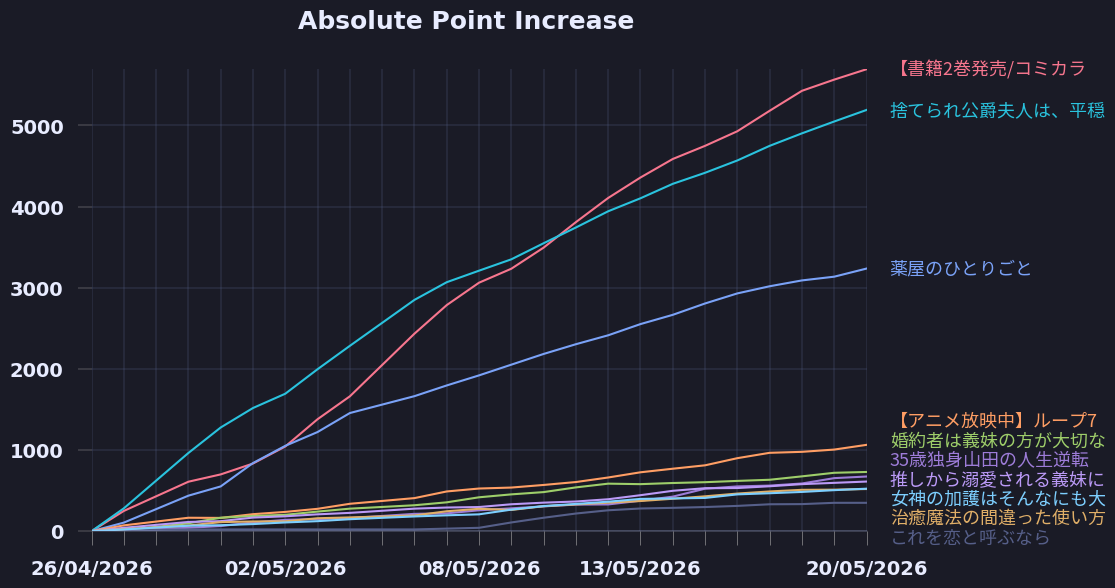
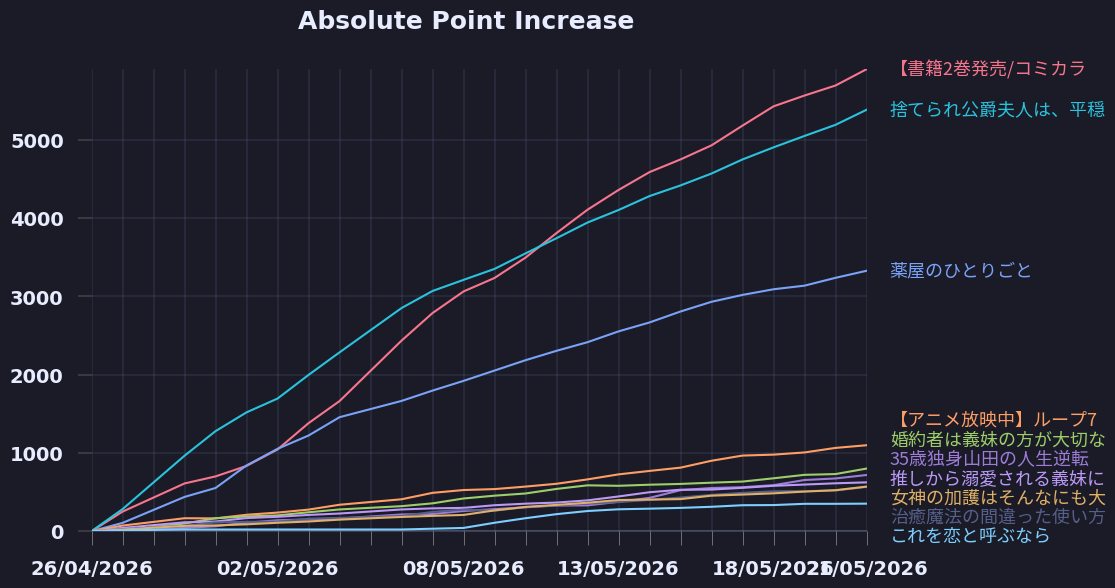
update plots

diff --git a/README.md b/README.md
@@ -15,6 +15,6 @@
 5. [婚約者は義妹の方が大切なので、ふたりが結婚できるようにしてあげようと思います](https://ncode.syosetu.com/n8269hq/)
 6. [35歳独身山田の人生逆転魔法　～現代社会に疲れた俺は異世界でスローライフを楽しむために現代で悪魔と戦って金儲けをしながら異世界村を発展させることにしました～](https://ncode.syosetu.com/n3115io/)
 7. [推しから溺愛される義妹に転生しました](https://ncode.syosetu.com/n5287io/)
-8. [これを恋と呼ぶなら](https://ncode.syosetu.com/n4785io/)
-9. [治癒魔法の間違った使い方～戦場を駆ける回復要員～](https://ncode.syosetu.com/n2468ca/)
-10. [女神の加護はそんなにも大事ですか？](https://ncode.syosetu.com/n3888io/)
+8. [治癒魔法の間違った使い方～戦場を駆ける回復要員～](https://ncode.syosetu.com/n2468ca/)
+9. [女神の加護はそんなにも大事ですか？](https://ncode.syosetu.com/n3888io/)
+10. [これを恋と呼ぶなら](https://ncode.syosetu.com/n4785io/)